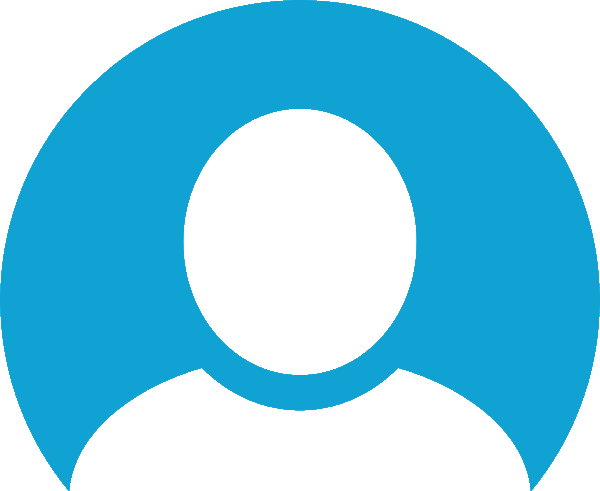
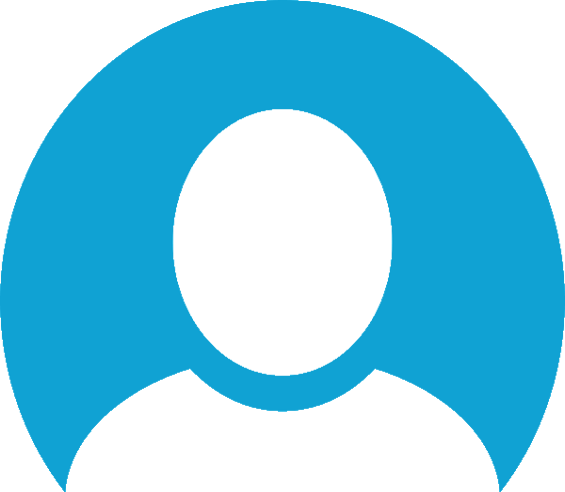
visual redimesion done

diff --git a/frontend/src/App.vue b/frontend/src/App.vue
@@ -1,25 +1,25 @@
 <template>
   <div class="container-fluid">
     <div class="row" style="background-color:#150485 ; background-image: url('../Images/background tapestry.png') ;">
-      <div class="col-2">
+      <div class="col col-4" >
         <router-link :to="{name: 'home'}">
-          <img src="Images/Logo.png" alt="Brainy" style="width: 100px;height: 75px;" class="img-fluid">
+          <img src="Images/Logo.png" alt="Brainy" style="width: 17%;" class="img-fluid">
         </router-link>
       </div>
-
-      <div class="col-8">
-        <h1 >Mas Despacio Cerebrito</h1>
+      <div class="col-4">
+        <h3 >Mas Despacio Cerebrito</h3>
       </div>
 
-      <div class="col-1">
+      <div class="col col-2" >
         <router-link :to="{name: 'ranking'}" v-if="logged">
-          <button class="btn btn-lg btn-success btn-block"><img src="Images/rank.png" alt="" class="img-fluid" style="height: 40px;width: 60px"></button>
+          <!--<button class="btn btn-lg btn-success btn-block" style="width: 100%"></button>-->
+            <img src="Images/rank.png" alt="Ranking"  style="width: 35%" class="img-fluid">
         </router-link>
       </div>
 
-      <div class="col-1">
+      <div class="col col-2">
         <router-link :to="{name: 'profile'}" v-if="logged">
-          <img src="Images/Profile.png" alt="" style="height: 50px;width: 65px" class="img-fluid">
+          <img src="Images/Profile.png" alt="Perfil" style="width: 35%" class="img-fluid">
         </router-link>
       </div>
 

diff --git a/frontend/src/pages/Ranking.vue b/frontend/src/pages/Ranking.vue
@@ -2,12 +2,28 @@
   <div id="ranking" class="col-12">
     <h1 class="text-white">Ranking de jugadores</h1>
     <div class="row justify-content-center">
-          <div class="titles col col-md-4"><strong>Jugador</strong></div>
-          <div class="titles col col-md-4"><strong>Puntos</strong></div>
+          <div class="titles col col-md-4">
+            <h3>
+              <strong>Jugador</strong>
+            </h3>
+          </div>
+          <div class="titles col col-md-4">
+            <h3>
+            <strong>Puntos</strong>
+          </h3>
+          </div>
     </div>
     <div v-for="player in playersRanking" class="row justify-content-center">
-          <div class="ranking-player col col-md-4">{{ player._id }}</div>
-          <div class="ranking-points col col-md-4">{{ player.points }}</div>
+          <div class="ranking-player col col-md-4">
+            <h3>
+              {{ player._id }}
+            </h3>
+          </div>
+          <div class="ranking-points col col-md-4">
+            <h3>
+              {{ player.points }}
+            </h3>
+          </div>
     </div>
   </div>
 </template>

diff --git a/frontend/Styles.css b/frontend/Styles.css
@@ -45,16 +45,16 @@ h1,h3,h2{
 }
 
 #ranking .titles{
-background-color: mediumpurple;
+/*background-color: mediumpurple;
 outline: 1px solid white;
 color: white;
-padding:10px;
+*/padding:10px;
 }
 #ranking .ranking-player,.ranking-points {
-  background-color: mediumpurple;
+  /*background-color: mediumpurple;
   outline: 1px solid white;
   color: white;
-  padding: 5px;
+  */padding: 5px;
 }
 
 @media screen and (max-width: 992px) {
